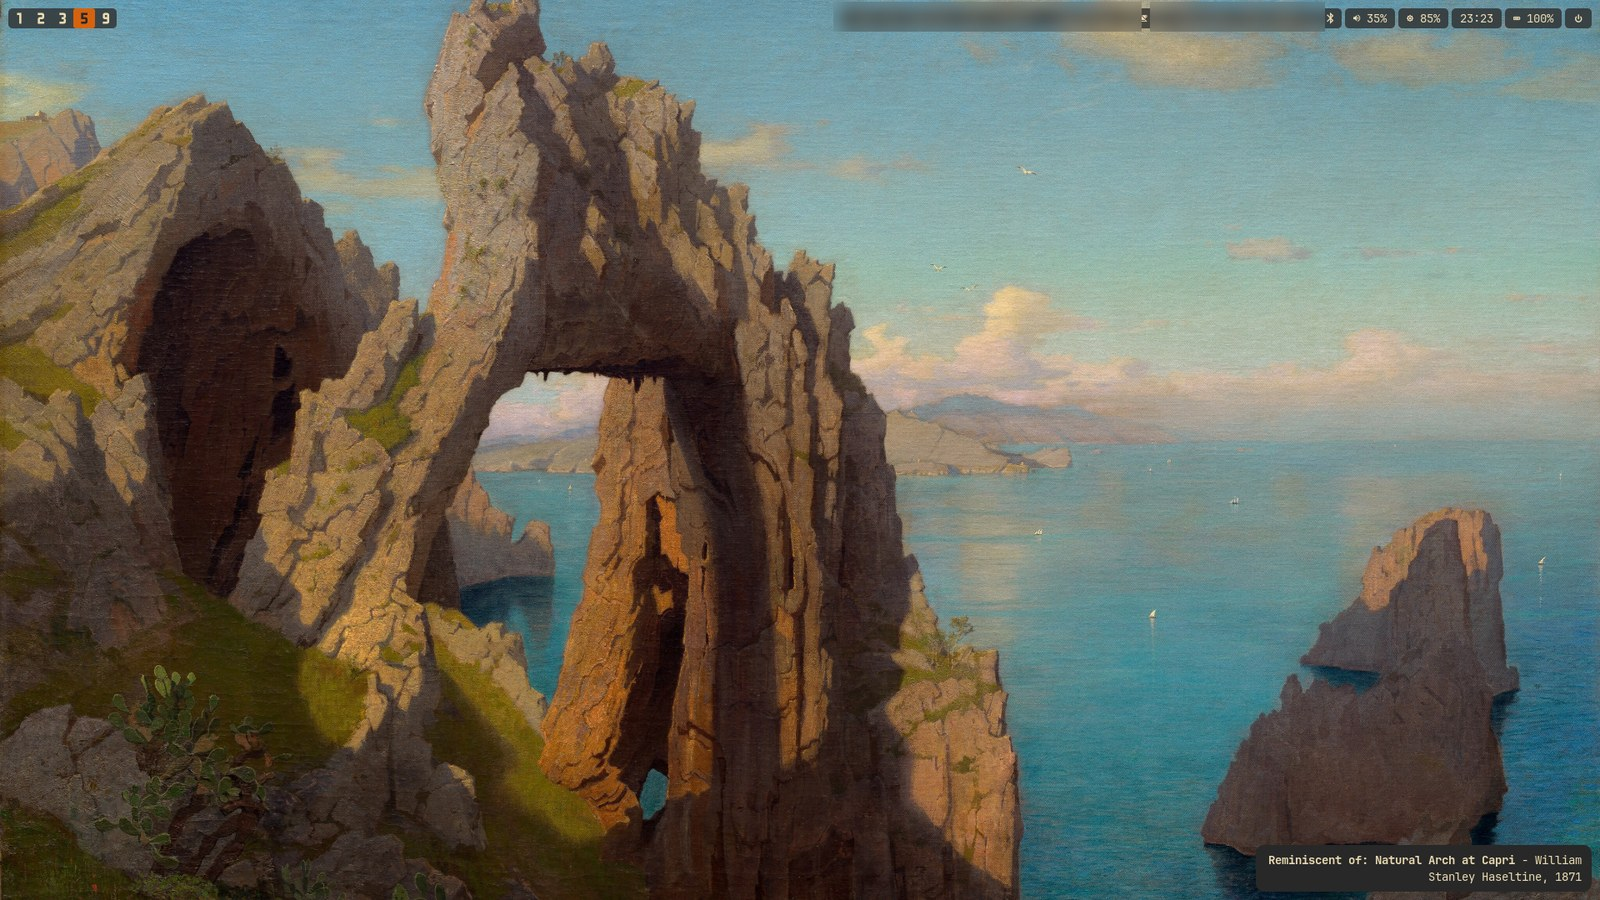
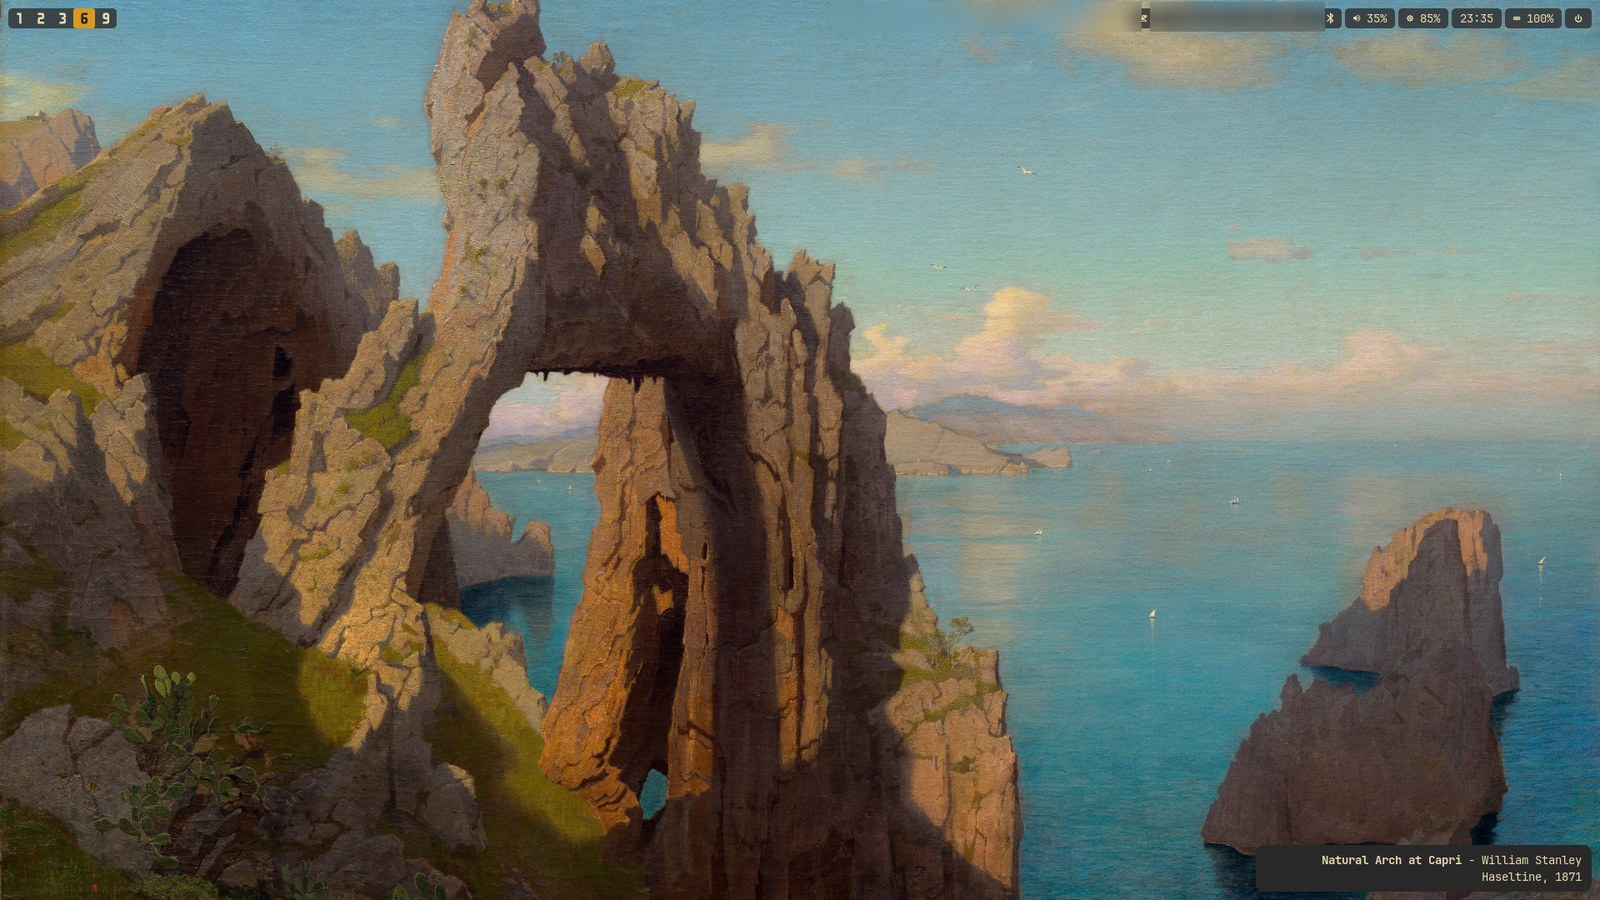
Set match thresholds from measured scores
The confident threshold of 0.92 was never reached in practice. Across a sample
of 30 wallpapers the highest score was 0.918 and the median 0.858, so every
wallpaper was labelled "Reminiscent of" and the confident path was effectively
dead.

Checking matches against the images shows where the real boundaries are: at
0.88 and above the identification was correct every time, between 0.78 and 0.88
the match shared subject or style, and below that only a theme. An exact
artwork does not score higher because the index holds small museum thumbnails
while a wallpaper is a full resolution and often cropped copy.

Thresholds are now 0.88 and 0.78, with the reasoning recorded next to them.
Screenshot retaken: the same wallpaper that previously read "Reminiscent of"
is now named outright.

Changed region(s): [[0.5, 0.0, 0.7188, 0.0622], [0.7812, 0.9333, 1.0, 0.9644], [0.0312, 0.0, 0.0625, 0.0311]]

diff --git a/artwall/config.py b/artwall/config.py
@@ -16,8 +16,14 @@ class Config:
     # Cosine similarity thresholds for the CLIP index. At or above confident_score the
     # match is reported as the artwork itself; between fuzzy_score and confident_score it
     # is reported as a resemblance.
-    confident_score: float = 0.92
-    fuzzy_score: float = 0.75
+    #
+    # These were measured rather than guessed. Across a sample of 30 wallpapers, correct
+    # identifications scored 0.88 and above, a resemblance in subject or style scored
+    # roughly 0.78 to 0.88, and anything lower shared only a theme. An exact artwork does
+    # not reach 0.95 because the index holds small museum thumbnails while a wallpaper is
+    # a full resolution, often cropped, copy of the same painting.
+    confident_score: float = 0.88
+    fuzzy_score: float = 0.78
 
     # Below fuzzy_score, show the nearest artwork as a resemblance anyway, or say nothing.
     show_weak_matches: bool = True

diff --git a/README.md b/README.md
@@ -7,8 +7,8 @@ network once the index exists, and no image leaves the machine.
 
 ![artwall-hypr labelling a wallpaper](docs/screenshot.jpg)
 
-*The label sits in the bottom right. Here the wallpaper scored 0.884 against the index, just
-under the confident threshold, so it is offered as a resemblance rather than named outright.*
+*The label sits in the bottom right. This wallpaper matched at 0.884, above the confident
+threshold, so the painting is named outright.*
 
 Wallpaper files are never modified. The text is drawn on a `gtk-layer-shell` surface above
 the wallpaper, so the original image stays untouched on disk.
@@ -25,8 +25,8 @@ the wallpaper, so the original image stays untouched on disk.
          | (miss)
          v
  +----------------------+
- | local CLIP index     | --> score >= 0.92 : named as that artwork
- +----------------------+     score >= 0.75 : shown as "Reminiscent of ..."
+ | local CLIP index     | --> score >= 0.88 : named as that artwork
+ +----------------------+     score >= 0.78 : shown as "Reminiscent of ..."
                               below that    : shown as a resemblance, or nothing
 ```
 
@@ -119,8 +119,8 @@ Inside an activated virtualenv the same commands work without the `uv run` prefi
 |---|---|---|
 | `wallpaper_dir` | `~/Images/Wallpapers/paintings` | Wallpapers outside this directory are ignored |
 | `show_weak_matches` | `True` | Show the nearest artwork below the fuzzy threshold, or say nothing |
-| `confident_score` | `0.92` | At or above this, the artwork is named outright |
-| `fuzzy_score` | `0.75` | At or above this, it is reported as a resemblance |
+| `confident_score` | `0.88` | At or above this, the artwork is named outright |
+| `fuzzy_score` | `0.78` | At or above this, it is reported as a resemblance |
 | `font_family`, `fg_color`, `bg_color` | Gruvbox | Overlay styling |
 | `margin_x`, `margin_y`, `width_chars` | 10, 10, 45 | Overlay position and text width |
 
